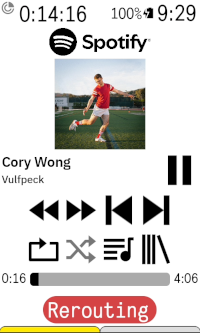
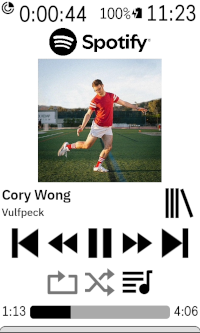
fix #34: Rearrange seek buttons (#47)

diff --git a/app/src/main/kotlin/de/timklge/karoospintunes/datatypes/PlayerViewProvider.kt b/app/src/main/kotlin/de/timklge/karoospintunes/datatypes/PlayerViewProvider.kt
@@ -1,6 +1,7 @@
 package de.timklge.karoospintunes.datatypes
 
 import android.content.Context
+import android.content.Intent
 import android.widget.RemoteViews
 import androidx.compose.ui.graphics.Color
 import androidx.compose.ui.unit.DpSize
@@ -15,6 +16,7 @@ import androidx.glance.appwidget.ExperimentalGlanceRemoteViewsApi
 import androidx.glance.appwidget.GlanceRemoteViews
 import androidx.glance.appwidget.LinearProgressIndicator
 import androidx.glance.appwidget.action.actionRunCallback
+import androidx.glance.appwidget.action.actionStartActivity
 import androidx.glance.color.ColorProvider
 import androidx.glance.layout.Alignment
 import androidx.glance.layout.Column
@@ -34,6 +36,8 @@ import androidx.glance.text.TextStyle
 import de.timklge.karoospintunes.KarooSystemServiceProvider
 import de.timklge.karoospintunes.R
 import de.timklge.karoospintunes.datatypes.actions.NextAction
+import de.timklge.karoospintunes.datatypes.actions.ToggleOptionsMenuCallback
+import de.timklge.karoospintunes.screens.PlayActivity
 import de.timklge.karoospintunes.screens.SpintuneSettings
 import de.timklge.karoospintunes.spotify.APIClient
 import de.timklge.karoospintunes.spotify.APIClientProvider
@@ -205,7 +209,16 @@ class PlayerViewProvider(private val apiClientProvider: APIClientProvider,
                                         verticalAlignment = Alignment.Vertical.CenterVertically,
                                         modifier = GlanceModifier.height(50.dp)
                                     ) {
-                                        PlayButton(appState, playerSize, buttonsDisabled)
+                                        if (appState.isPlaying != null && playerSize == PlayerSize.SMALL){
+                                            ActionButton(R.drawable.dots_vertical_rounded_regular_132, buttonsDisabled) { actionRunCallback(
+                                                ToggleOptionsMenuCallback::class.java)}
+                                        }
+
+                                        // The library button should remain enabled in local mode even when 'buttonsDisabled' is true.
+                                        ActionButton(R.drawable.library_regular_132, (buttonsDisabled && !appState.isLocalPlayer) || appState.error != null) {
+                                            val intent = Intent(context, PlayActivity::class.java)
+                                            actionStartActivity(intent)
+                                        }
                                     }
                                 }
 
@@ -217,7 +230,8 @@ class PlayerViewProvider(private val apiClientProvider: APIClientProvider,
                                         playerState = appState,
                                         showToggle = false,
                                         buttonsDisabled = buttonsDisabled,
-                                        disabledActions = appState.disabledActions
+                                        disabledActions = appState.disabledActions,
+                                        playerSize = playerSize
                                     )
 
                                     Spacer(modifier = GlanceModifier.height(2.dp))
@@ -290,7 +304,8 @@ class PlayerViewProvider(private val apiClientProvider: APIClientProvider,
                                     playerState = appState,
                                     showToggle = true,
                                     buttonsDisabled = buttonsDisabled,
-                                    disabledActions = appState.disabledActions
+                                    disabledActions = appState.disabledActions,
+                                    playerSize = playerSize
                                 )
                             }
                         }

diff --git a/app/src/main/kotlin/de/timklge/karoospintunes/datatypes/PlayerDataType.kt b/app/src/main/kotlin/de/timklge/karoospintunes/datatypes/PlayerDataType.kt
@@ -87,10 +87,6 @@ fun PlayButton(playerState: PlayerState, playerSize: PlayerSize, disabled: Boole
     } else if(playerState.isPlaying == false) {
         ActionButton(R.drawable.play_regular_132, disabled) { actionRunCallback(PlayAction::class.java) }
     }
-
-    if (playerState.isPlaying != null && playerSize == PlayerSize.SMALL){
-        ActionButton(R.drawable.dots_vertical_rounded_regular_132, disabled) { actionRunCallback(ToggleOptionsMenuCallback::class.java)}
-    }
 }
 
 @Composable
@@ -99,21 +95,18 @@ fun OptionsRows(
     playerState: PlayerState,
     showToggle: Boolean,
     buttonsDisabled: Boolean,
-    disabledActions: Map<PlayerAction, Boolean>
+    disabledActions: Map<PlayerAction, Boolean>,
+    playerSize: PlayerSize
 ) {
     Row(modifier = GlanceModifier.fillMaxWidth().height(50.dp), horizontalAlignment = Alignment.CenterHorizontally) {
-        ActionButton(R.drawable.rewind_regular_132, buttonsDisabled || disabledActions[PlayerAction.SEEK] == true) { actionRunCallback(RewindAction::class.java) }
-        ActionButton(R.drawable.fast_forward_regular_132, buttonsDisabled || disabledActions[PlayerAction.SEEK] == true) { actionRunCallback(FastForwardAction::class.java) }
         ActionButton(R.drawable.skip_previous_regular_132, buttonsDisabled || (disabledActions[PlayerAction.SKIP_PREVIOUS] == true && disabledActions[PlayerAction.SEEK] == true) ) { actionRunCallback(PreviousAction::class.java) }
+        ActionButton(R.drawable.rewind_regular_132, buttonsDisabled || disabledActions[PlayerAction.SEEK] == true) { actionRunCallback(RewindAction::class.java) }
+        PlayButton(playerState, playerSize, buttonsDisabled)
+        ActionButton(R.drawable.fast_forward_regular_132, buttonsDisabled || disabledActions[PlayerAction.SEEK] == true) { actionRunCallback(FastForwardAction::class.java) }
         ActionButton(R.drawable.skip_next_regular_132, buttonsDisabled || disabledActions[PlayerAction.SKIP_NEXT] == true) { actionRunCallback(NextAction::class.java) }
 
         if (showToggle){
             ActionButton(R.drawable.dots_vertical_rounded_regular_132, buttonsDisabled) { actionRunCallback(ToggleOptionsMenuCallback::class.java)}
-        }
-
-        if (disabledActions[PlayerAction.SET_VOLUME] != true){
-            val canMakeLouder = playerState.volume?.let { v -> v < 1.0f } ?: false
-            ActionButton(R.drawable.volume_full_regular_132, buttonsDisabled, !canMakeLouder) { actionRunCallback(LouderAction::class.java)}
         }
     }
 
@@ -132,15 +125,15 @@ fun OptionsRows(
             val intent = Intent(context, QueueActivity::class.java)
             actionStartActivity(intent)
         }
-        // The library button should remain enabled in local mode even when 'buttonsDisabled' is true.
-        ActionButton(R.drawable.library_regular_132, (buttonsDisabled && !playerState.isLocalPlayer) || playerState.error != null) {
-            val intent = Intent(context, PlayActivity::class.java)
-            actionStartActivity(intent)
-        }
 
         if (disabledActions[PlayerAction.SET_VOLUME] != true){
             val canMakeQuieter = playerState.volume?.let { v -> v > 0.0f } ?: false
             ActionButton(R.drawable.volume_low_regular_132, buttonsDisabled, !canMakeQuieter) { actionRunCallback(QuieterAction::class.java)}
+        }
+
+        if (disabledActions[PlayerAction.SET_VOLUME] != true){
+            val canMakeLouder = playerState.volume?.let { v -> v < 1.0f } ?: false
+            ActionButton(R.drawable.volume_full_regular_132, buttonsDisabled, !canMakeLouder) { actionRunCallback(LouderAction::class.java)}
         }
     }
 }
